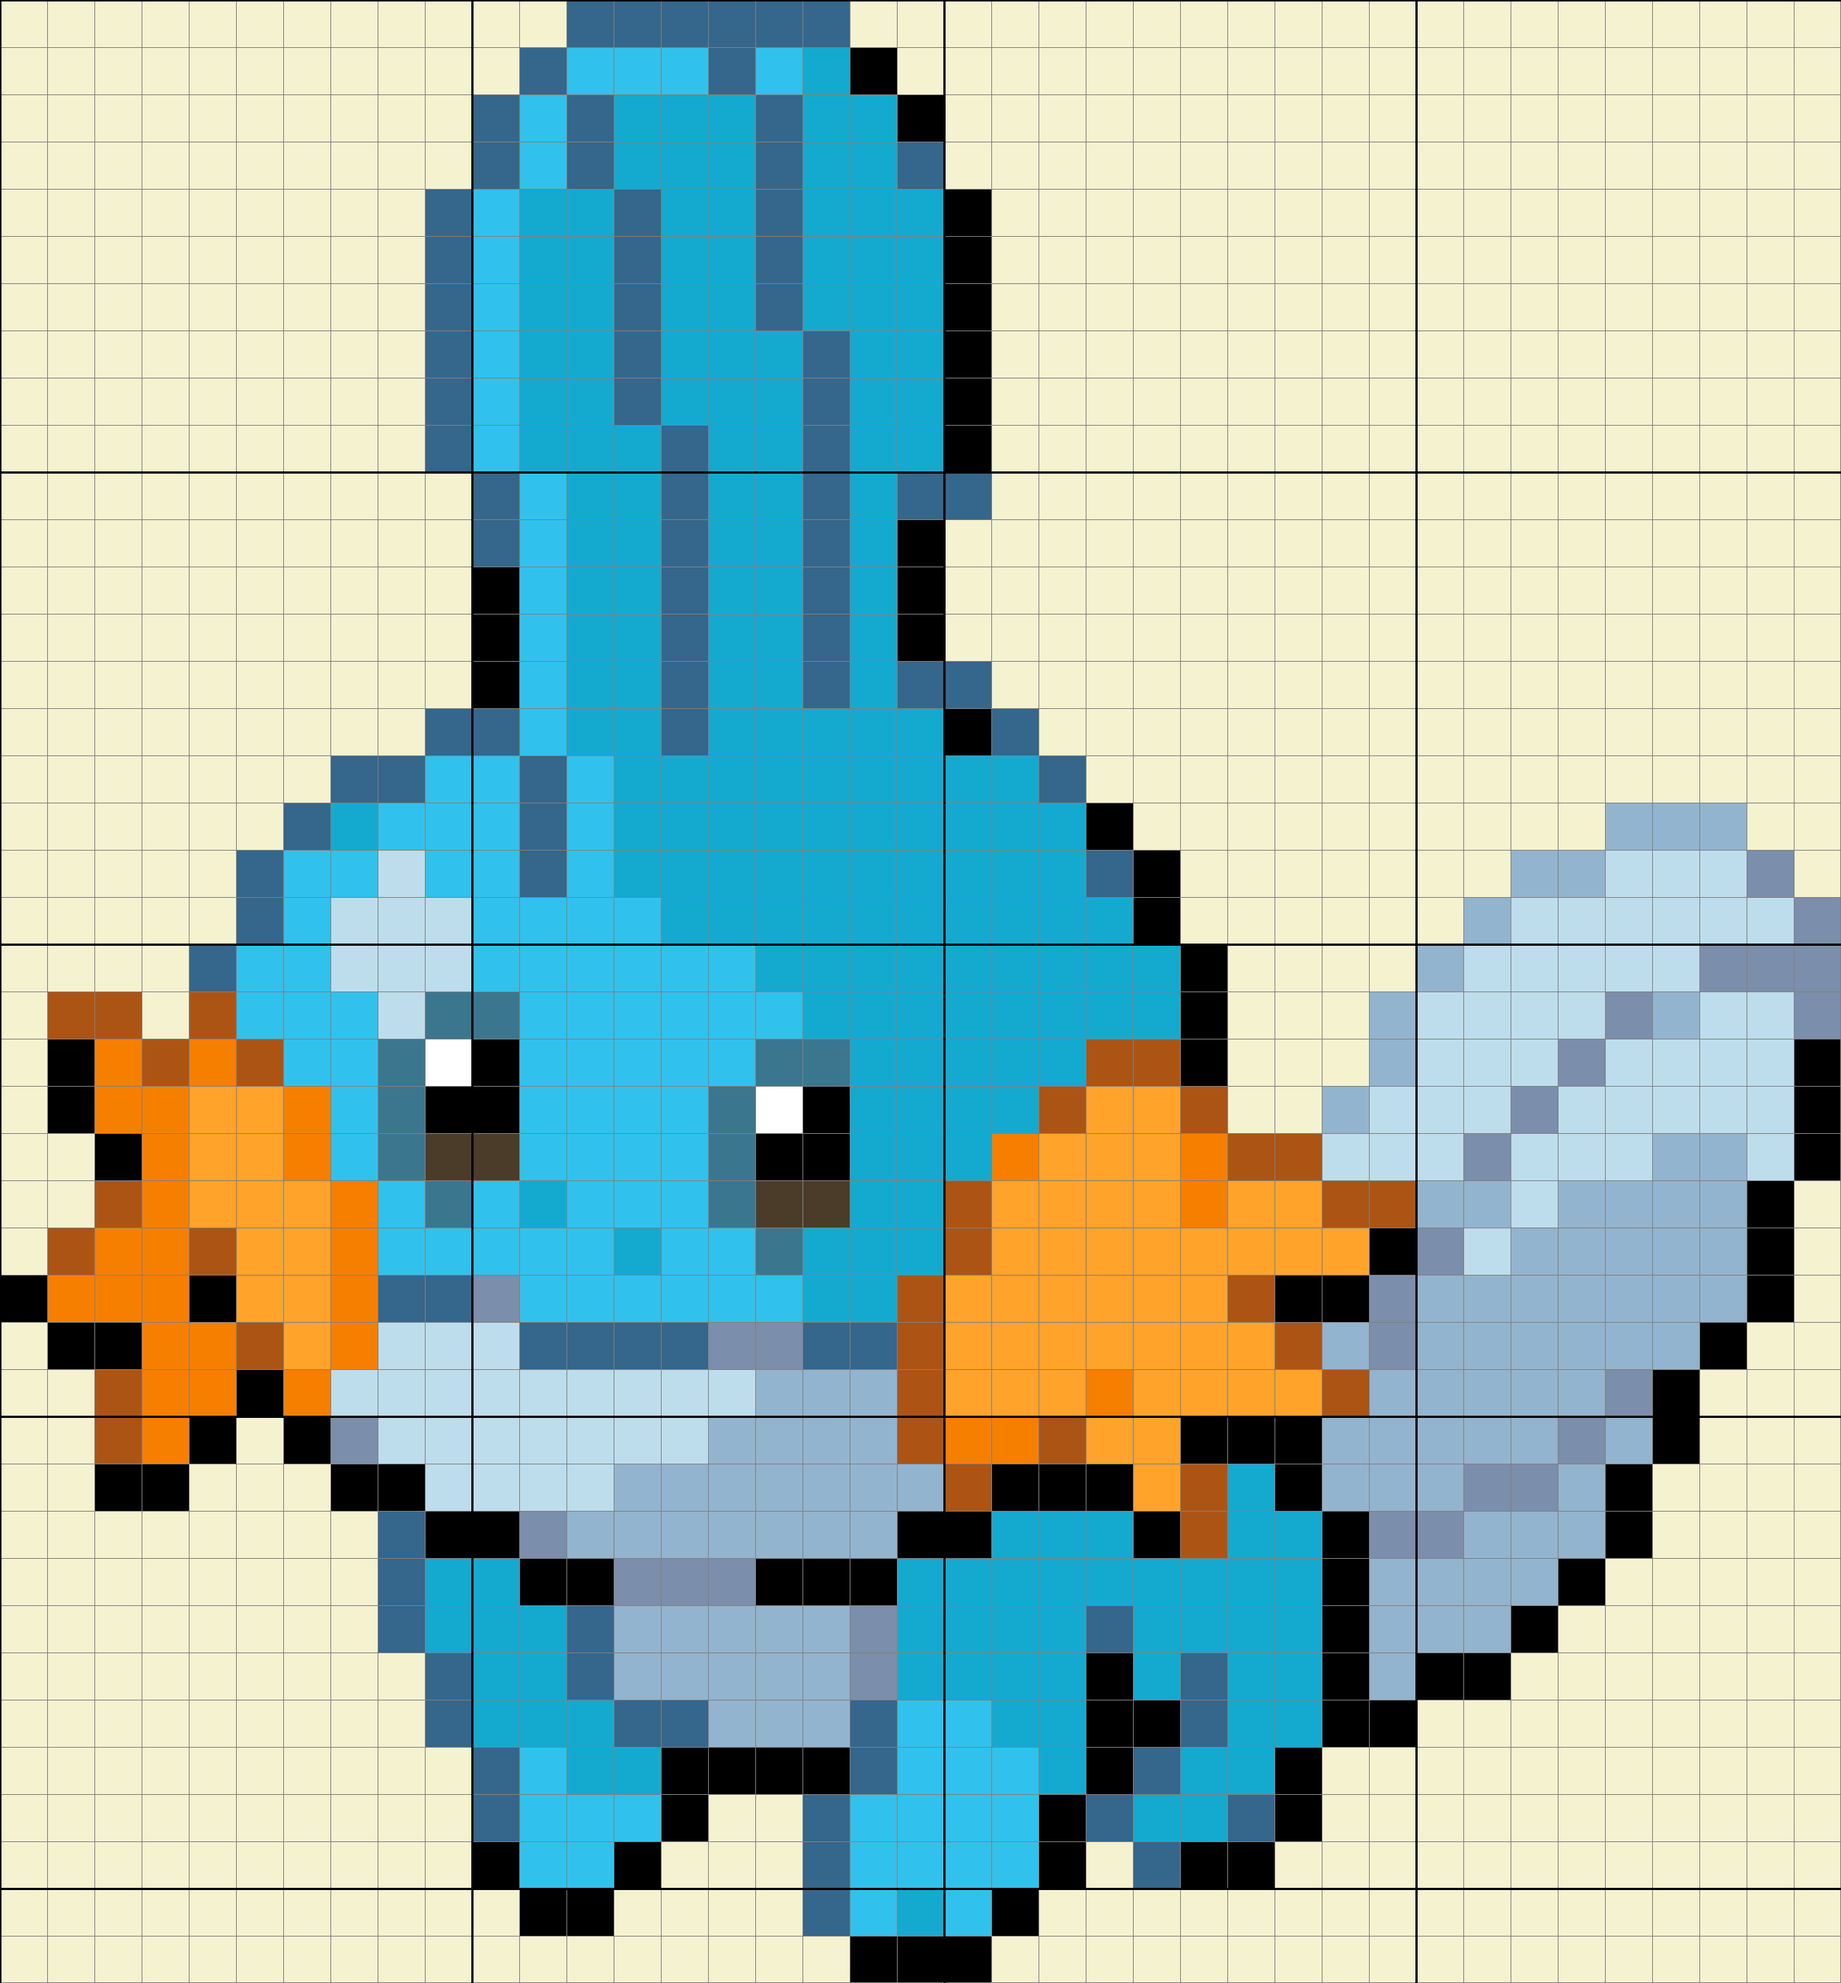
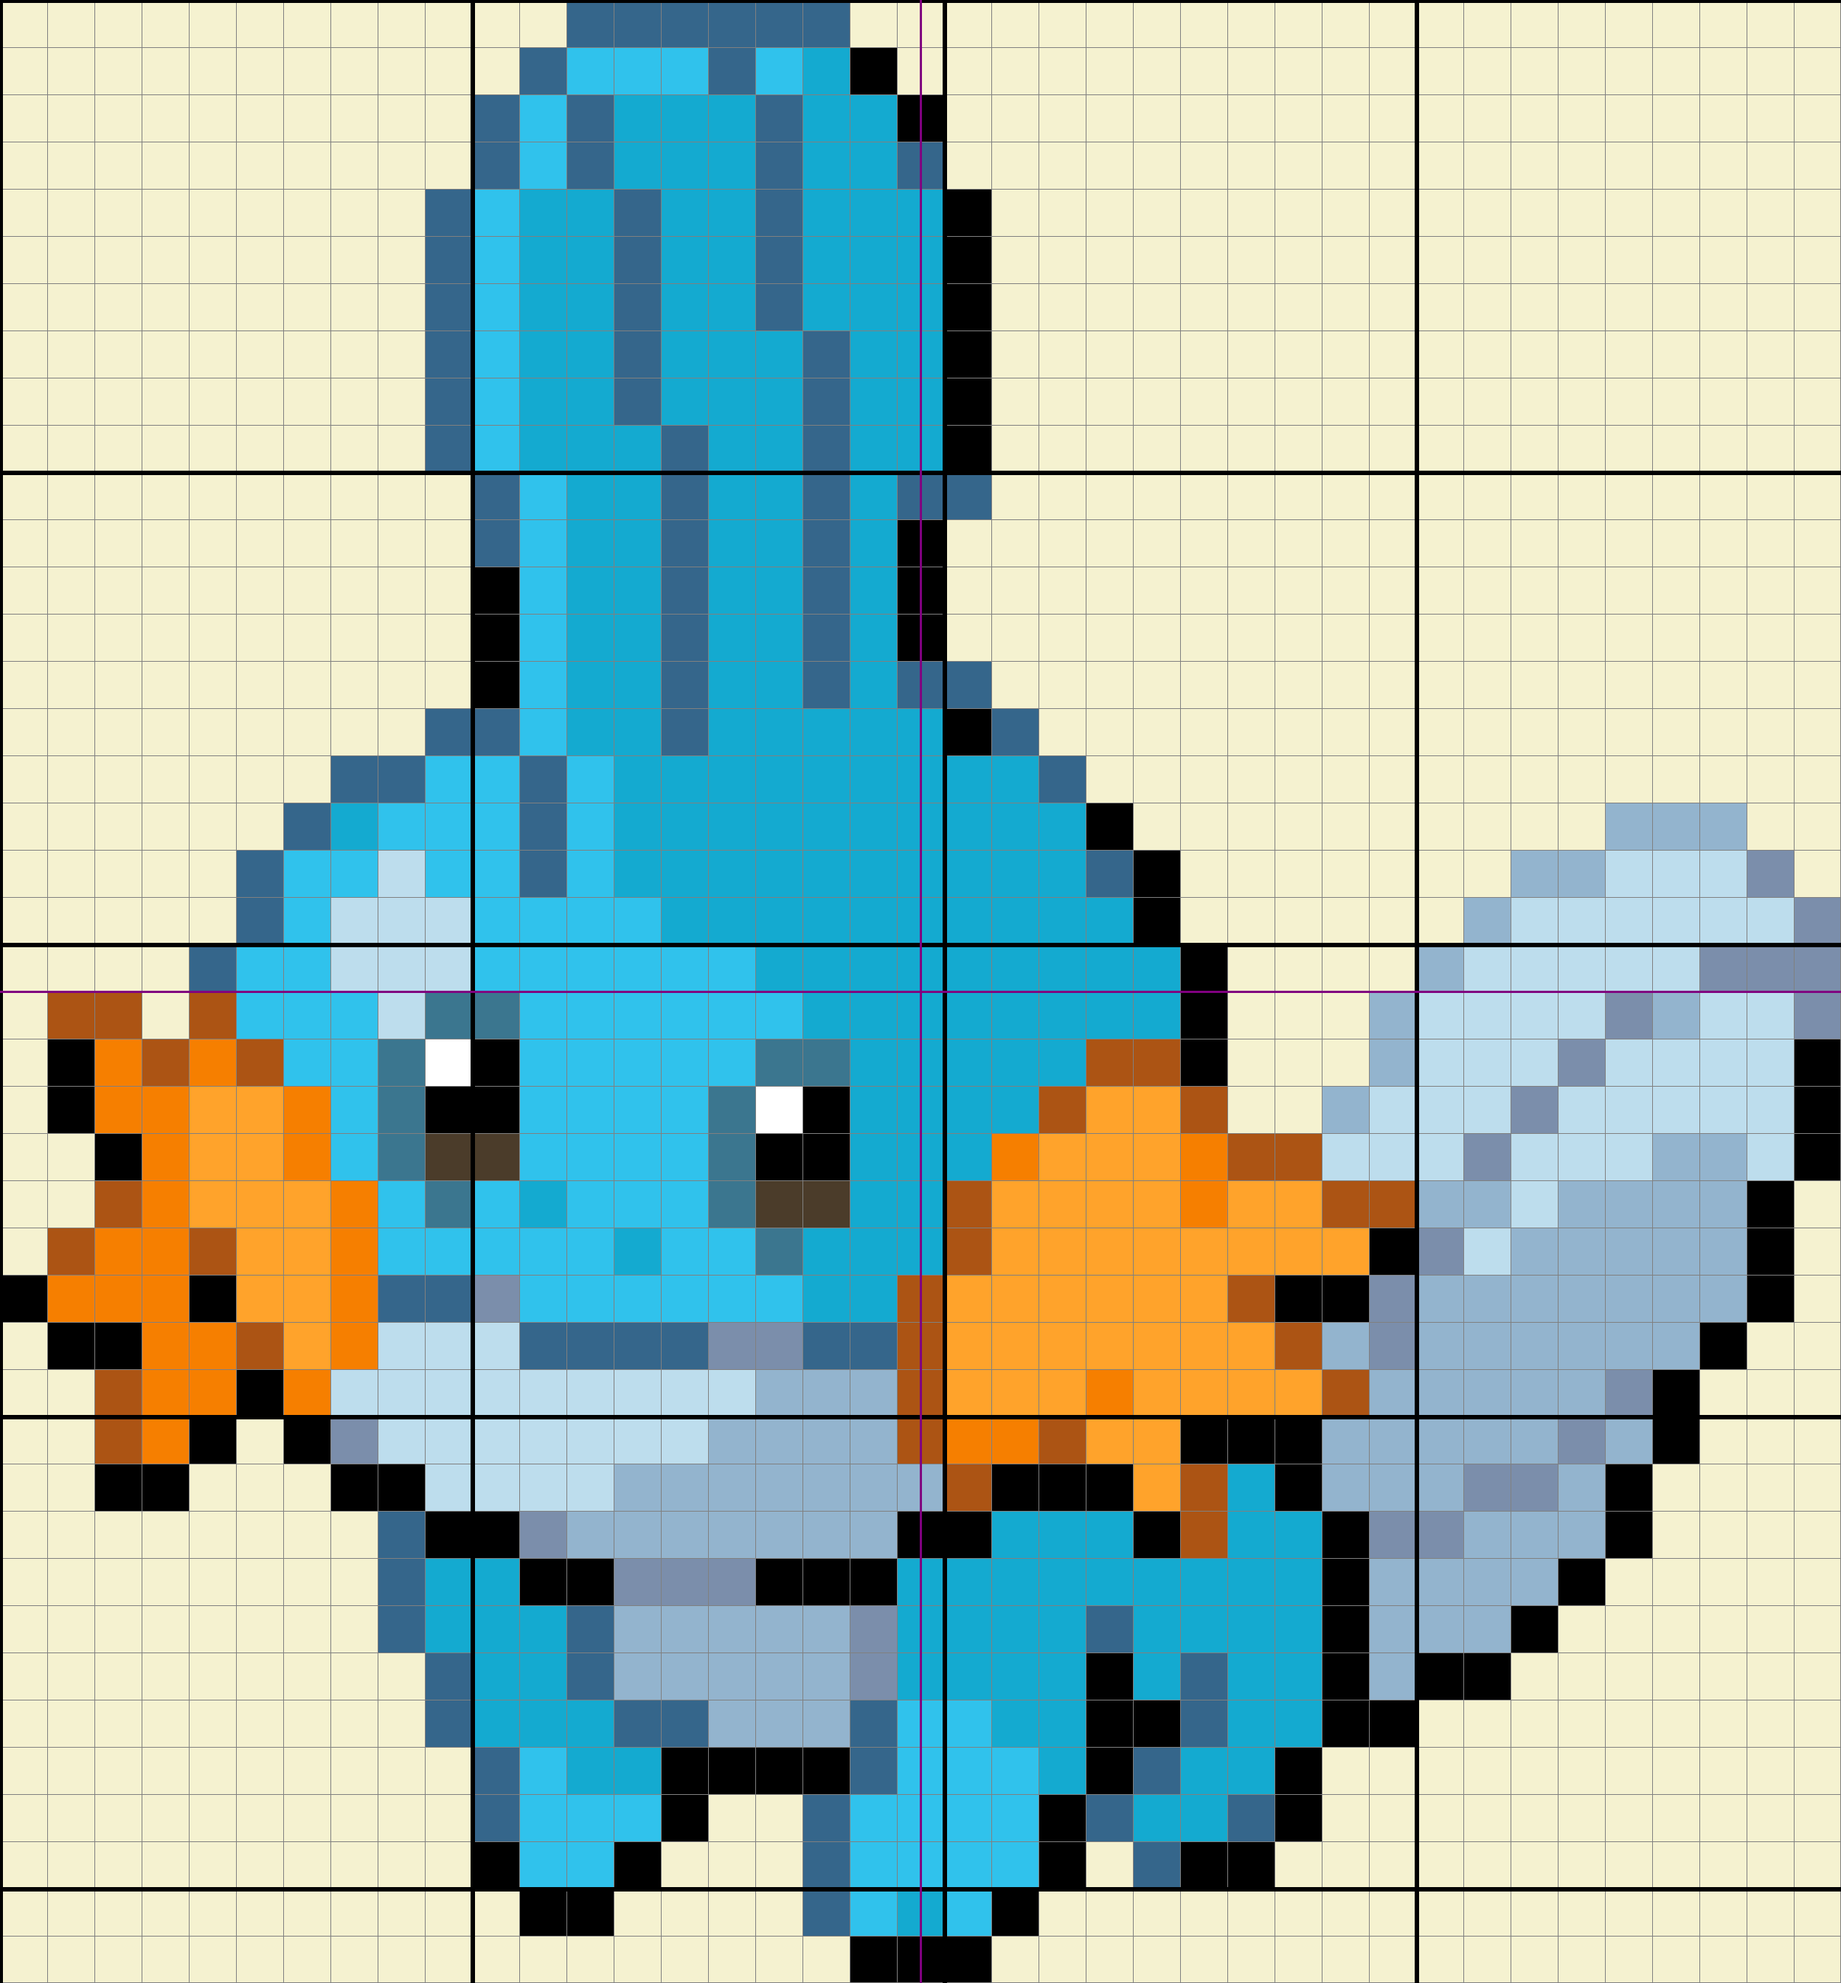
color key table added

Changed region(s): [[0.5, 0.4688, 0.5312, 0.5]]

diff --git a/utils.py b/utils.py
@@ -145,8 +145,6 @@ def duplicate_checking(color_chart, original_path, scaled_path):
     scaled.save("test.png")
 
 
-
-
 def recolor_image(image_path, pandas_colors):
     # Load and convert image to RGBA
     img = Image.open(image_path).convert('RGBA')
@@ -258,20 +256,20 @@ def add_grid(image_path):
     # Draw 10 x 10 Boxes
     for x in range(0, image.width, step_size*box_size):
         line = ((x, y_start), (x, y_end))
-        draw.line(line, fill=major_line, width=3)
+        draw.line(line, fill=major_line, width=6)
     for y in range(0, image.height, step_size*box_size):
         line = ((x_start, y), (x_end, y))
-        draw.line(line, fill=major_line, width=3)
+        draw.line(line, fill=major_line, width=6)
 
-    # # Draw a vertical line in the middle of the image
-    # x = image.width / 2
-    # line = ((x, y_start), (x, y_end))
-    # draw.line(line, fill="purple", width=3)
+    # Draw a vertical line in the middle of the image
+    x = image.width / 2
+    line = ((x, y_start), (x, y_end))
+    draw.line(line, fill="purple", width=3)
 
-    # # Draw a horizontal line in the middle of the image
-    # y = image.height / 2
-    # line = ((x_start, y), (x_end, y))
-    # draw.line(line, fill="purple", width=3)
+    # Draw a horizontal line in the middle of the image
+    y = image.height / 2
+    line = ((x_start, y), (x_end, y))
+    draw.line(line, fill="purple", width=3)
 
     # Finish Drawing
     del draw
@@ -295,11 +293,17 @@ def add_symbols(base_image_path, grid_image_path, color_chart):
     # Symbol List
     symbol_list = get_symbol_list()
 
-    # Handle Pandas Dataframe
-    
+    # Handle Pandas Dataframe & Remove Duplicates
+    color_key = color_chart[['DMC Number', 'Floss Name',
+                             'Stitch Count', 'Color Match RGB']]
+    color_key = color_key.groupby("Floss Name", as_index=False).agg({
+        'DMC Number': 'first',
+        'Stitch Count': 'sum',
+        'Color Match RGB': 'first'}).sort_values(by='DMC Number')
+    color_key['Symbol'] = ""
 
     # Apply Symbols
-    for idx, (_, row) in enumerate(color_chart.iterrows()):
+    for idx, (_, row) in enumerate(color_key.iterrows()):
         target_color = rgb_to_rgba(row["Color Match RGB"])
         color_correct = color_correction(target_color)
         # print(idx, target_color, "Color Correction: ", color_correct)
@@ -308,6 +312,7 @@ def add_symbols(base_image_path, grid_image_path, color_chart):
             # print(idx, len(symbol_list))
             symbol = Image.open(symbol_list[idx]).convert("RGBA")
             symbol = symbol.resize((SCALE, SCALE))
+            color_key.loc[idx, 'Symbol'] = symbol_list[idx]
 
             if color_correct:
                 arr = np.array(symbol)
@@ -317,13 +322,14 @@ def add_symbols(base_image_path, grid_image_path, color_chart):
             for y in range(h):
                 for x in range(w):
                     # if base_pixels[x, y] == target_color:
-                    if base_pixels[x, y][:3] == target_color[:3]:
+                    if base_pixels[x, y][:4] == target_color[:4]:
                         px = x * SCALE
                         py = y * SCALE
 
                         scaled.paste(symbol, (px, py), symbol)
 
     scaled.save("test.png")
+    return color_key
 
 
 # -------------------------------------------------------- Supporting Functions

diff --git a/main.py b/main.py
@@ -20,10 +20,9 @@ recolor_path = recolor_image(crop_path, color_chart)
 
 grid_path = add_grid(recolor_path)
 
-duplicate_checking(color_chart, crop_path, grid_path)
+# duplicate_checking(color_chart, crop_path, grid_path)
+
+color_key = add_symbols(recolor_path, grid_path, color_chart)
 
 
 
-
-
-# add_symbols(recolor_path, grid_path, color_chart)
